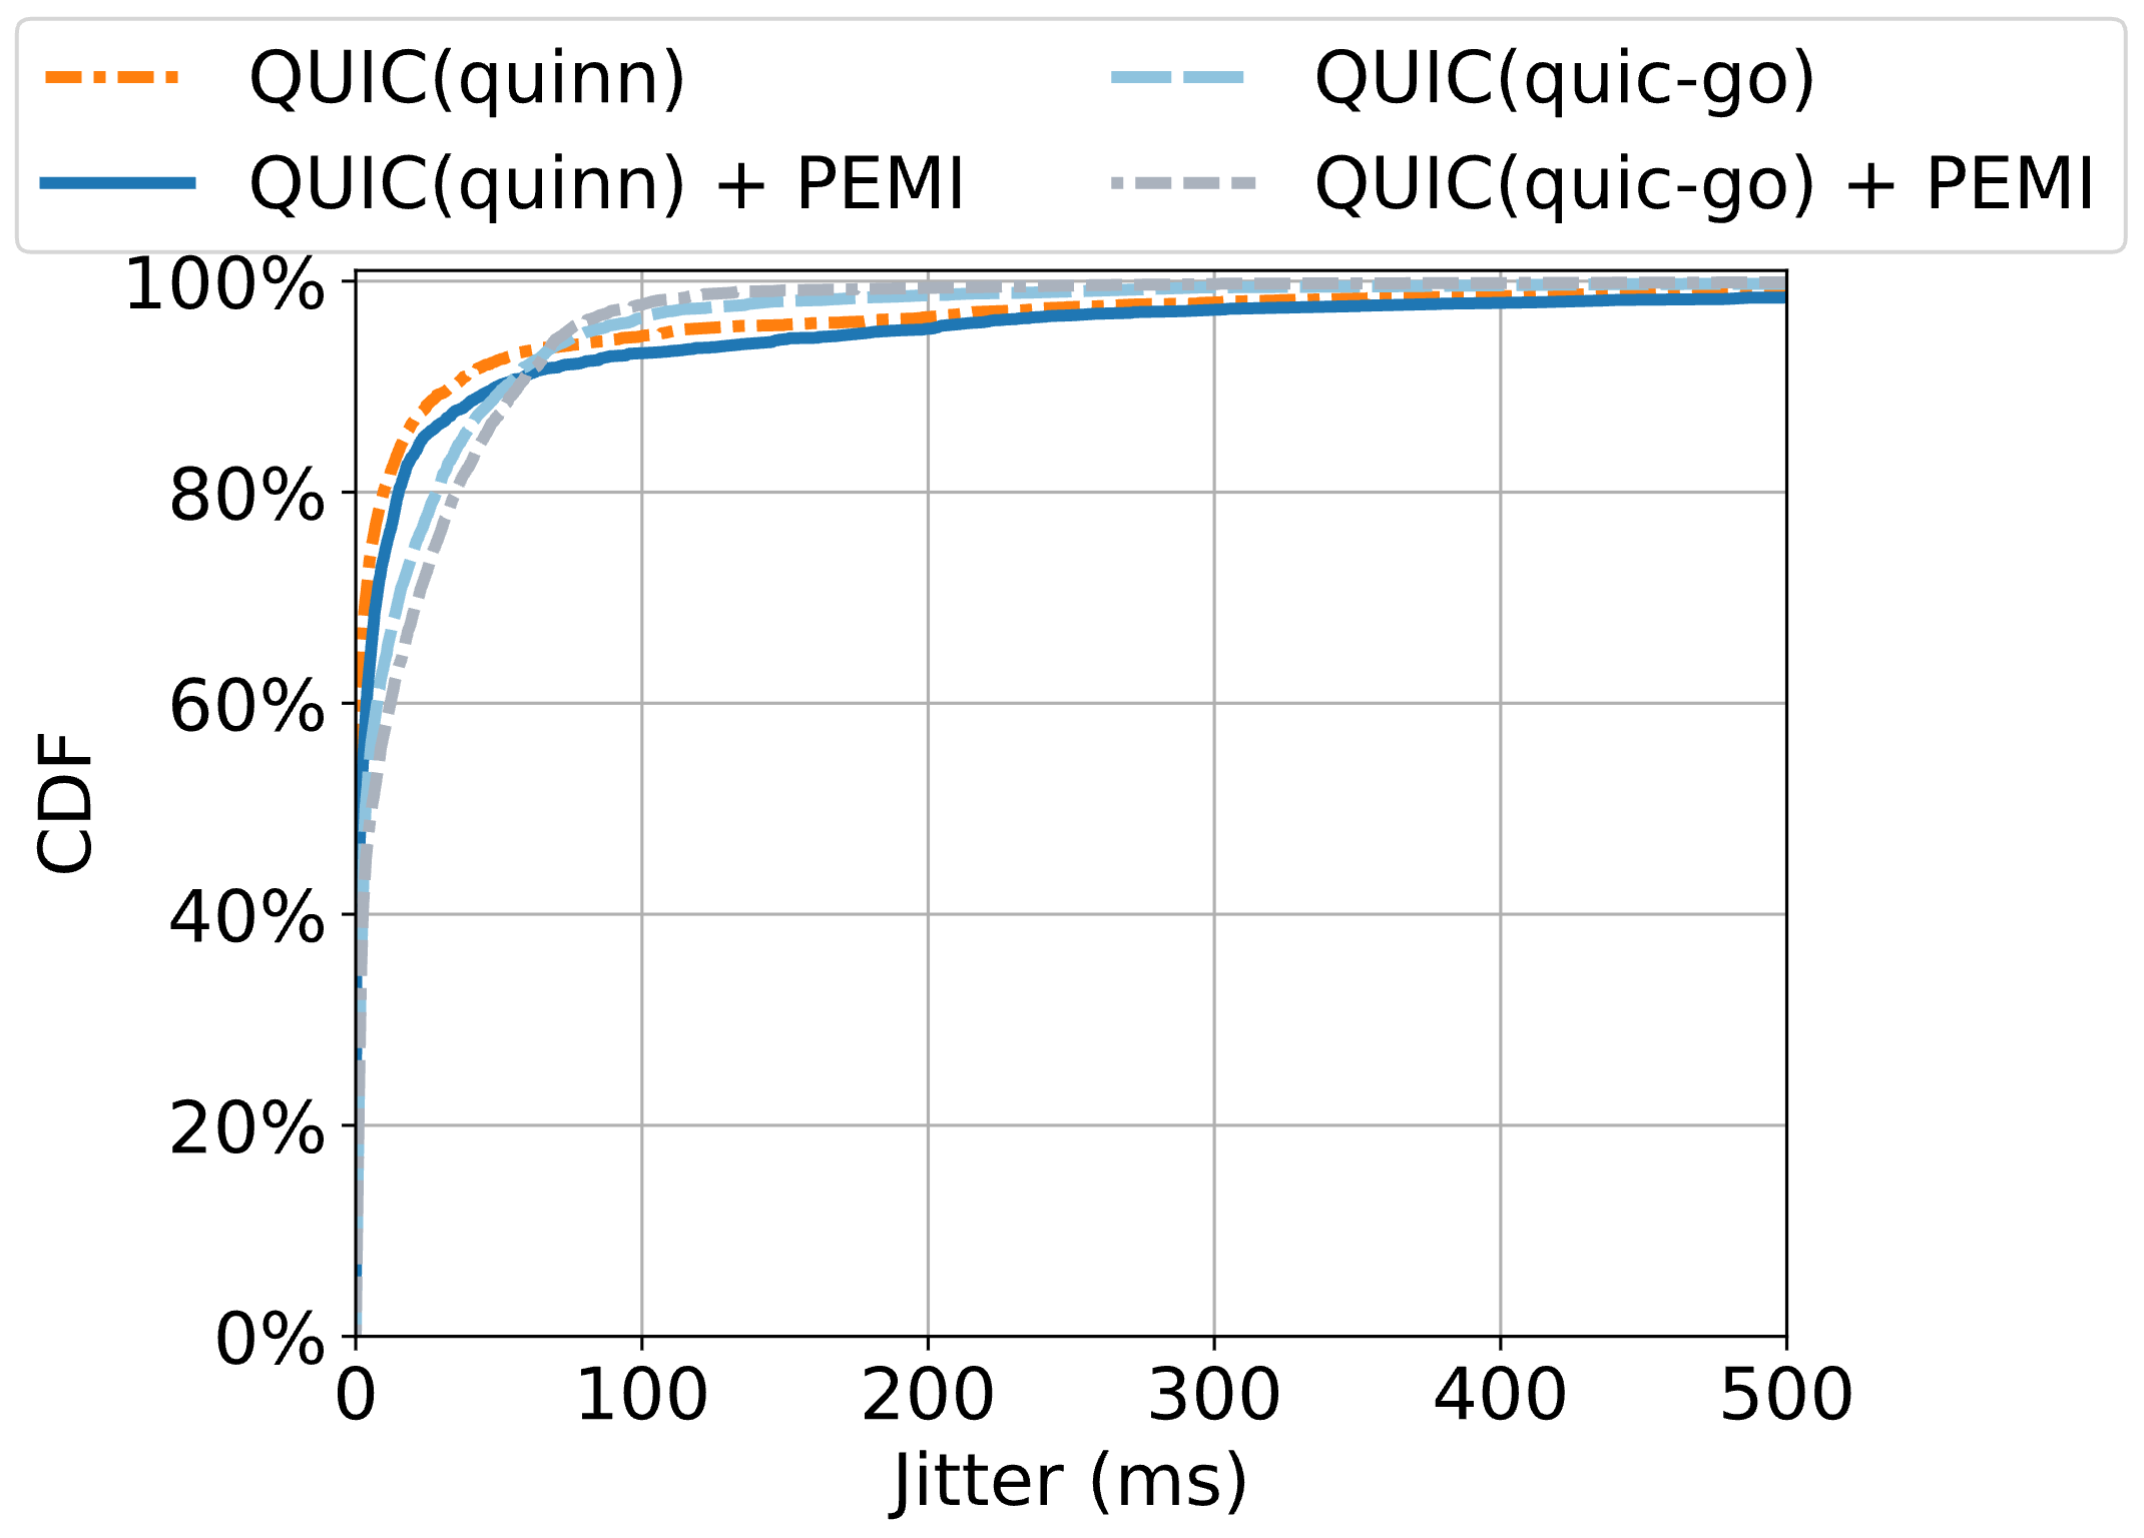
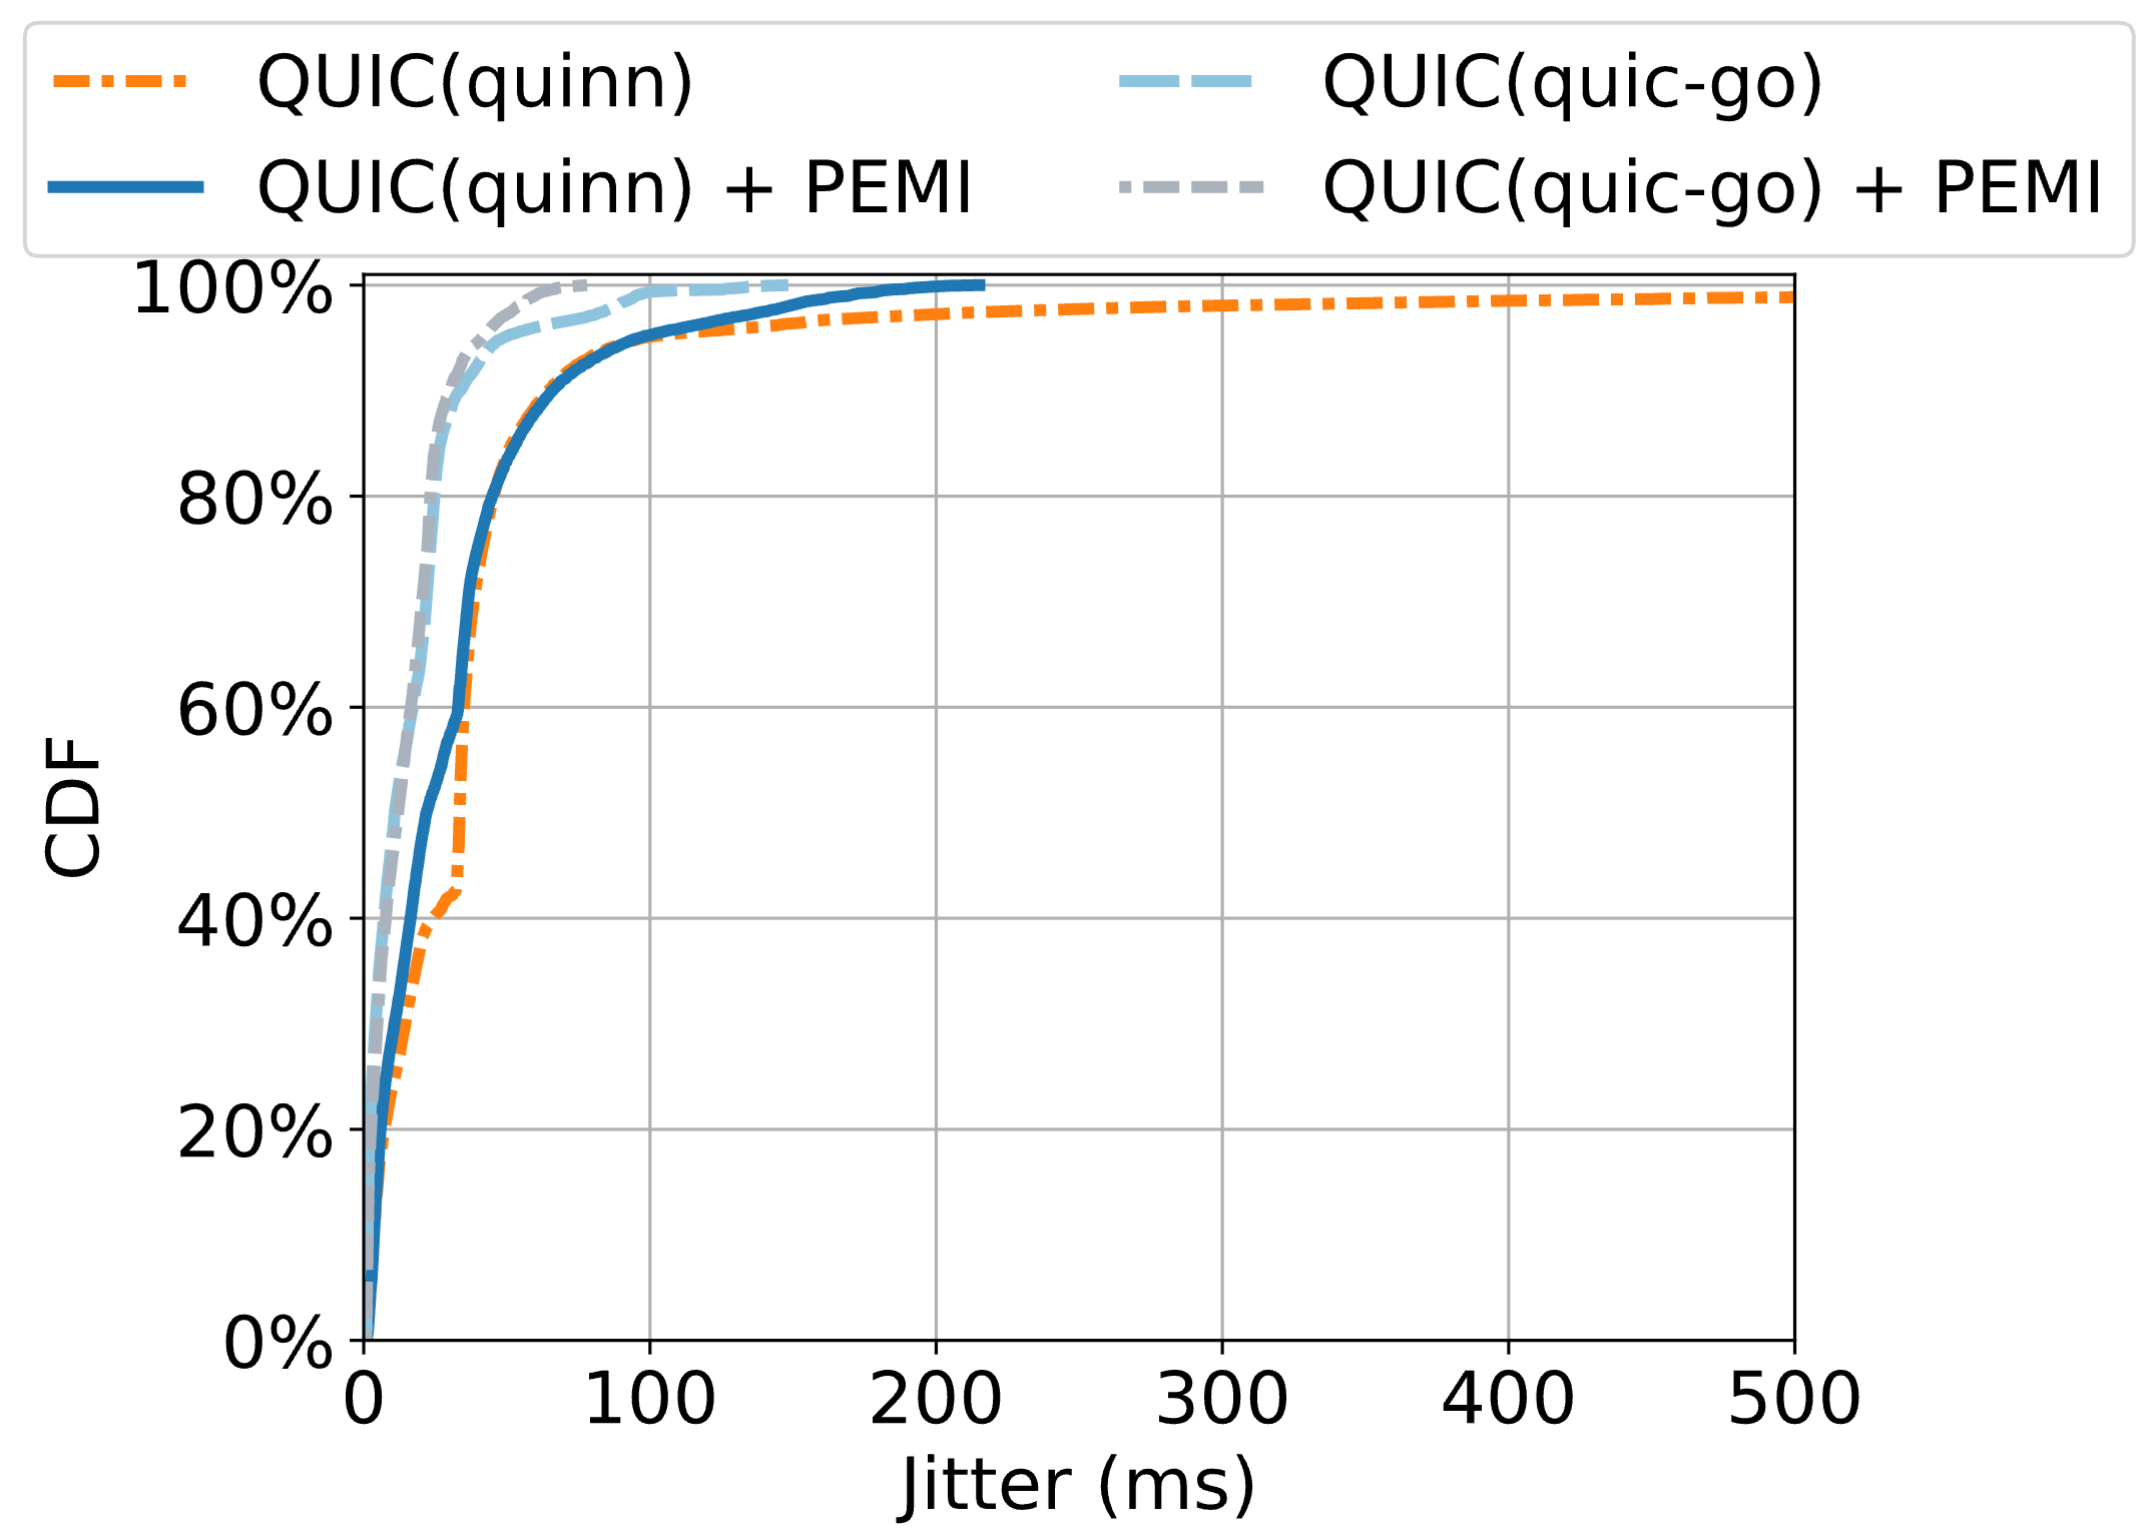
add script to compute the RTC frames' statistics; fix the report's jitter results

Changed region(s): [[0.0, 0.0, 1.0, 1.0], [0.0, 0.4688, 0.0625, 0.5625]]

diff --git a/mininet/rtc_frame_stats.py b/mininet/rtc_frame_stats.py
@@ -1,0 +1,167 @@
+"""
+Process RTC frame logs to compute frame-level statistics (frame-level jitter, frame delay).
+"""
+
+import os
+
+
+def save_frame_log(
+    client_log="c1.log", server_log="s1.log", output_file="run.txt", append=True
+):
+    """
+    save content of client_log, server_log to the result file
+    if append is False, overwrite the output_file.
+    """
+    with open(client_log) as client_f, open(server_log) as server_f, open(
+        output_file, "a" if append else "w"
+    ) as result_f:
+        for line in server_f:
+            result_f.write(line)
+        for line in client_f:
+            result_f.write(line)
+
+
+def parse_one_trail(lines):
+    """
+    Parse one trail's data from the log lines.
+    """
+    data = (
+        {}
+    )  # data: {end(server/client) : timestamps}; timestamps: {frame id: timestamp}
+    data["server"] = {}
+    data["client"] = {}
+    begin_data = None
+    video_long = None
+    i = 0
+    while i < len(lines):
+        line = lines[i]
+        i += 1
+        line = line.strip()
+        # found the data size, prepare to read data
+        if "RTC Server GetN request:" in line:
+            begin_data = "server"
+            # example1: RTC Server GetN request: 300 frames
+            # example2: RTC Server GetN request: 300 frames, each is 12500 B
+            if "each is" in line:
+                line = line.split("each is", 1)[0].rstrip(" ,")
+            video_long = int(line.split(" ")[-2]) / 30
+            # print(f"video_long: {video_long}")
+            continue
+        if begin_data is None:  # wait server data
+            continue
+        if not line.startswith("frame "):
+            # Done reading data for this trail
+            begin_data = "client"
+        else:
+            # Read a data point
+            # example: frame 6, sent time: 420.885449
+            line = line.split(" ")
+            frame = int(line[1][:-1])
+            time = float(line[-1])
+            data["server"][frame] = time
+
+        # after server data, read client data
+        if begin_data == "client":
+            begin = False  # turn True when find the begin of client data
+            i = i - 1  # go back one line to re-process this line
+            while i < len(lines):
+                line = lines[i]
+                i += 1
+                line = line.strip()
+                if "GetN request:" in line and "seconds" in line:
+                    # GetN request: 300 frames( 10 seconds)
+                    client_video_long = int(line.split(" ")[-2])
+                    assert client_video_long == video_long
+                    begin = True
+                    continue
+                if "Application error 0x0 (remote)" in line:
+                    continue
+                if not begin:
+                    continue
+                if not line.startswith("frame "):
+                    # Done reading data for this trail
+                    begin_data = None
+                    video_long = None
+                    return i, data
+                else:
+                    # Read a data point
+                    # example: frame 1, fin time: 287.208894
+                    line = line.split(" ")
+                    frame = int(line[1][:-1])
+                    time = float(line[-1])
+                    data["client"][frame] = time
+    return None, data  # no data found, end the parse
+
+
+def parse_data(logfile="run.txt", trials=1, video_long=20):
+    """
+    Compute frame timestamps from the log file containing multiple trails.
+    """
+    data = []
+    assert os.path.exists(logfile), f"file not found: {logfile}"
+
+    with open(logfile) as f:
+        lines = f.read().split("\n")
+    while len(data) < trials:
+        # print(f"len(lines): {len(lines)}")
+        used_line, d = parse_one_trail(lines)
+        if used_line is None:
+            break
+
+        lines = lines[used_line:]
+        if d["server"] == {} or d["client"] == {}:
+            continue
+        # print(f"trail {len(data)}: {len(d['server'])} frames")
+        if len(d["server"]) != video_long * 30 or len(d["client"]) != video_long * 30:
+            print(f"warning: trail {len(data)}: {len(d['server'])} frames")
+            continue
+        data.append(d)
+    return data
+
+
+def compute_frame_stats(data, video_long):
+    """
+    Compute frame-level statistics.
+    1. frame delay: client arrive time - server sent time.
+    2. frame-level jitter: statistical variance of the frame interarrival time.
+
+    reference: Enabling passive measurement of zoom performance in production networks (IMC ’22), and RFC 3550.
+    """
+    frame_delays = []
+    jitter = []
+    ideal_interval = 1.0 / 30.0  # 30 fps
+    for d in data:
+        last_fin = None
+        interval_sample = None
+        jitter_sample = 0.0
+        for i in range(1, video_long * 30 + 1):
+            frame_delays.append(d["client"][i] - d["server"][i])
+            # to ms
+            frame_delays[-1] *= 1000
+            if last_fin is not None:
+                # D(i,j) = (Rj - Ri) - (Sj - Si)
+                # J(i) = J(i-1) + (|D(i-1,i)| - J(i-1))/16
+                interval_sample = d["client"][i] - last_fin
+                diff = abs(interval_sample - ideal_interval)
+                jitter_sample = jitter_sample + (diff - jitter_sample) / 16.0
+                jitter.append(jitter_sample * 1000)
+            last_fin = d["client"][i]
+    frame_delays.sort()
+    jitter.sort()
+    return frame_delays, jitter
+
+
+def print_key_points(data, title):
+    n = len(data)
+    print(
+        f"{title}: 99%: {data[int(n*0.99)]}, 95%: {data[int(n*0.95)]}, 90%: {data[int(n*0.9)]}, 50%: {data[int(n*0.5)]}"
+    )
+
+
+if __name__ == "__main__":
+    # example: suppose a video_long=5 experiment has been run. Parse the log
+    save_frame_log(append=False)  # overwrite the log file
+    data = parse_data(logfile="run.txt", trials=1, video_long=5)
+    frame_delays, jitter = compute_frame_stats(data, video_long=5)
+    print_key_points(frame_delays, "Frame Delays")
+    print_key_points(jitter, "Jitter")

diff --git a/other_stacks_report/other_stacks_report.md b/other_stacks_report/other_stacks_report.md
@@ -44,8 +44,8 @@ Each experiment ran for 20 seconds and was repeated 10 times.
 
    <img src="other_stacks_frame_delay.png" alt="other_stacks_frame_delay" width="300"/>
 
-2. **Jitter**: for quinn, the 90% percentile decreases from 209.8 ms to 87.4 ms (a 58.3% reduction). However, the 50% percentile jitter increases from 0.05 ms to 12.8 ms, though it remains small.
-    For quic-go, the 90% percentile decreases from 52.5 ms to 39.4 ms (a 25.0% reduction), and the 50% percentile decreases from 14.3 ms to 7.6 ms (a 46.7% reduction).
+2. **Frame-level Jitter**: for quinn, the 50% percentile decreases from 54.3 ms to 21.0 ms (a 61.3% reduction), and the 90% percentile decreases from 87.3 ms to 42.4 ms (a 51.4% reduction).
+    For quic-go, the 50% percentile decreases from 13.3 ms to 7.2 ms (a 45.8% reduction), and the 90% percentile decreases from 27.2 ms to 21.5 ms (a 21.0% reduction).
 
    <img src="other_stacks_jitter.png" alt="other_stacks_jitter" width="300"/>
 
@@ -60,8 +60,9 @@ For quic-go, the tail delay significantly decreases: the 90% percentile decrease
 
    <img src="other_stacks_cellular_frame.png" alt="other_stacks_cellular_frame" width="300"/>
 
-2. **Jitter**: for quinn, after enabling PEMI, the jitter exhibits a moderate increase. For example, the 50% percentile increases from 0.17 ms to 1.82 ms, and the 90% percentile increases from 33.7 ms to 49.5 ms.
-For quic-go, after enabling PEMI, though the median jitter slightly increases from 3.4 ms to 5.6 ms, the tail jitter is significantly reduced: the 99% percentile decreases from 253.7 ms to 140.8 ms (a 44.49% reduction).
+2. **Frame-level Jitter**: 
+for quinn, after enabling PEMI, the 50% percentile decreases from 33.4ms to 21.9ms (a 34.4% reduction). The tail jitter is significantly reduced, with the 99% percentile decreasing from 562.8ms to 170.0ms (a 69.8% reduction).
+For quic-go, after enabling PEMI, the 50% percentile slightly increases from 10.8ms to 11.965ms (a 10.8% increase). However, the tail jitter is observably reduced, with the 99% percentile decreasing from 95.2ms to 60.0ms (a 37.0% reduction).
 
    <img src="other_stacks_cellular_jitter.png" alt="other_stacks_cellular_jitter" width="300"/>
 
@@ -71,7 +72,8 @@ For quic-go, after enabling PEMI, though the median jitter slightly increases fr
 
 In the manuscript(under review), we have shown that PEMI significantly improves quiche-based applications.
 In this report, we show that PEMI achieves clear performance gains on quinn and quic-go as well.
-With PEMI enabled, the goodput of the file-transfer application is improved under loss. The frame delay, especially the tail delay, of the dummy RTC application is significantly reduced in various network settings. The tail jitter is reduced in most cases, though it slightly increases in other cases.
+With PEMI enabled, the goodput of the file-transfer application is improved under loss. 
+As for the dummy RTC application, the frame delay, especially the tail delay, is significantly reduced in various network settings. The frame-level jitter is also clearly reduced.
 
 In addition, we observe that quinn’s performance is generally worse than quic-go’s, regardless of whether PEMI is enabled. This may be because of the implementaion differences, e.g., congestion control algorithms, between the two QUIC stacks.
 Further investigation is required to fully understand the underlying mechanisms behind this performance gap.

diff --git a/README.md b/README.md
@@ -122,6 +122,8 @@ sudo -E python3 mininet/run.py --loss1 1 --pemi http -n 5000k --proto quic -t 2
 sudo -E python3 mininet/run.py --loss1 1 quiche_rtc --video-long 20
 sudo -E python3 mininet/run.py --loss1 1 --pemi quiche_rtc --video-long 20
 
+# you could parse the frame-level statistics using mininet/rtc_frame_stats.py, see main function of mininet/rtc_frame_stats.py for example usage.
+
 # rtc + mininet + cellular network emulation
 sudo -E python3 mininet/run.py --loss1ge 0.08 8 100 0 --loss-seed 1 --mm-config mininet/mahimahi/cell_tmobile_driving.toml --pemi quiche_rtc --video-long 30
 sudo -E python3 mininet/run.py --loss1ge 0.08 8 100 0 --loss-seed 1 --mm-config mininet/mahimahi/cell_tmobile_driving.toml --pemi quiche_rtc --video-long 30
